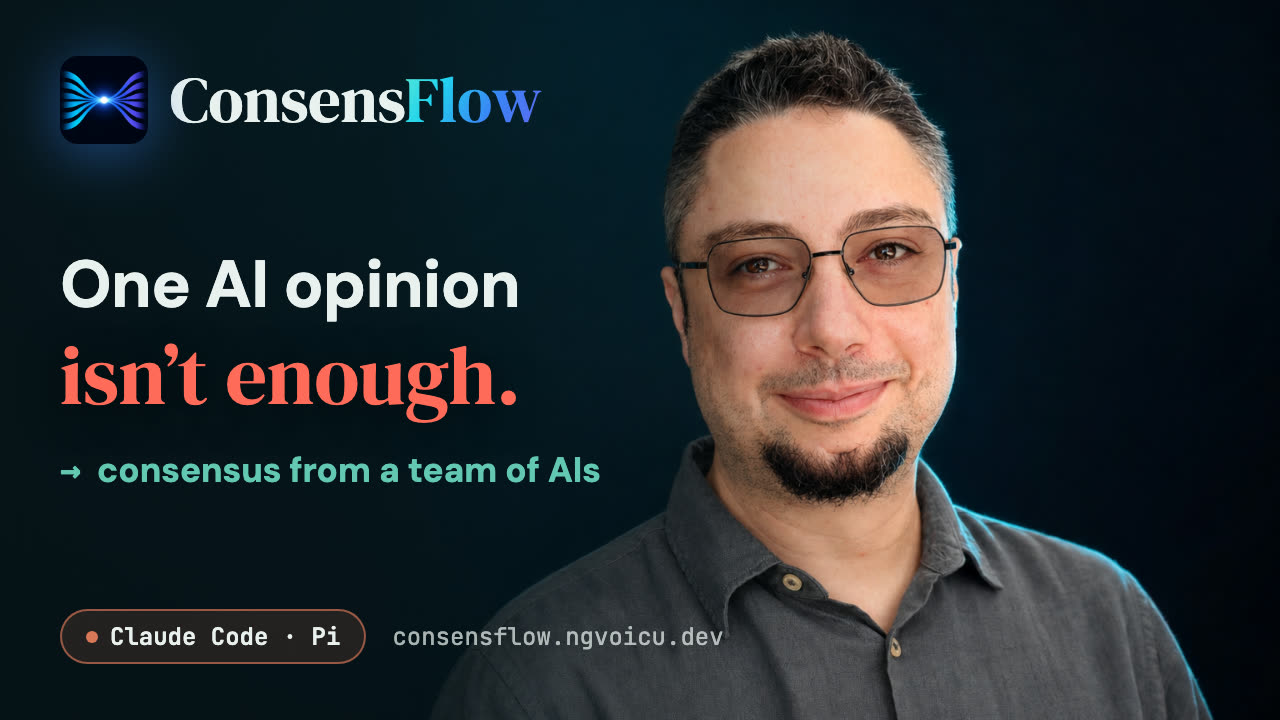
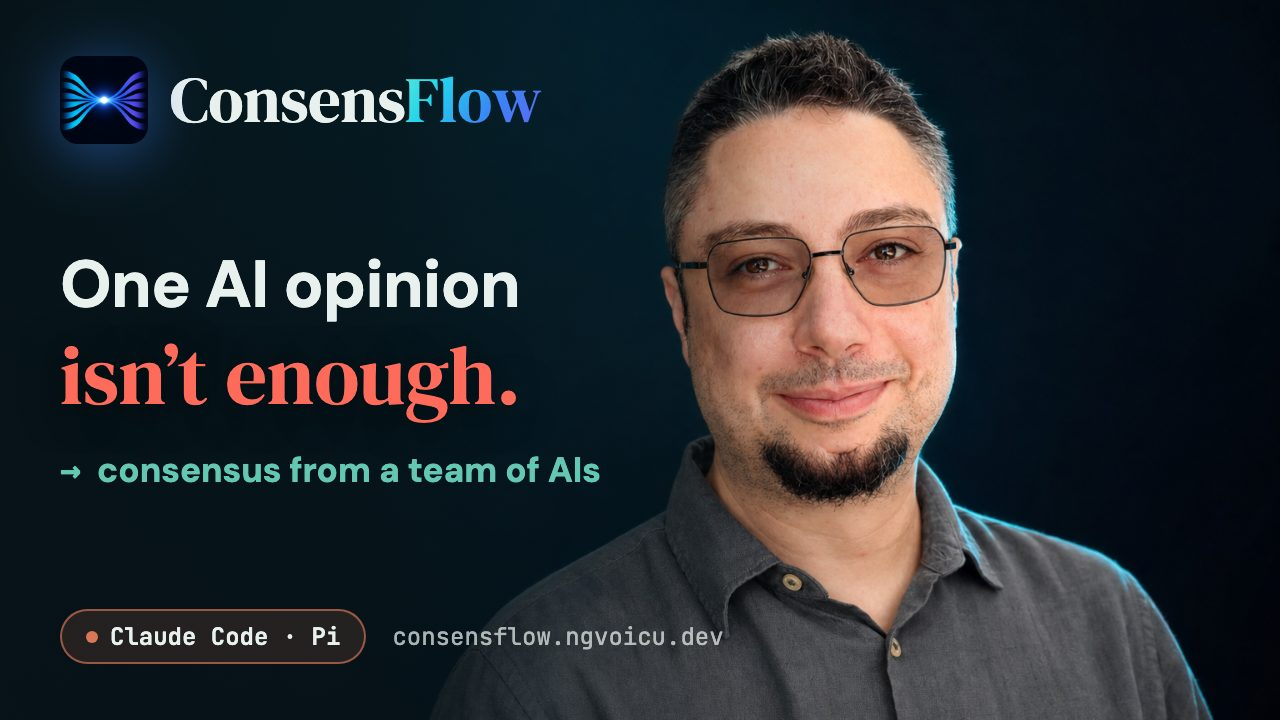
ConsensFlow video live — /videos card first with real URL + VideoObject, fresh v14 thumb, article embed + VideoObject

diff --git a/videos/index.html b/videos/index.html
@@ -42,6 +42,20 @@
 {
   "@context": "https://schema.org",
   "@type": "VideoObject",
+  "name": "ConsensFlow: a second AI opinion inside Claude Code & Pi",
+  "description": "One AI opinion isn't enough. ConsensFlow lets the AI you're coding with ask a different AI for a second opinion — multi-LLM code review, spec review and task delegation, without leaving your session.",
+  "thumbnailUrl": "https://ngvoicu.dev/videos/thumbs/consensflow.jpg",
+  "uploadDate": "2026-07-21",
+  "duration": "PT3M26S",
+  "contentUrl": "https://www.youtube.com/watch?v=iKuBFEDE8Go",
+  "embedUrl": "https://www.youtube-nocookie.com/embed/iKuBFEDE8Go",
+  "author": { "@type": "Person", "name": "Gabriel Voicu", "url": "https://ngvoicu.dev" }
+}
+</script>
+<script type="application/ld+json">
+{
+  "@context": "https://schema.org",
+  "@type": "VideoObject",
   "name": "Kluris: give your AI agents one shared memory (Claude Code, Cursor…)",
   "description": "Your AI agents are brilliant — and amnesiac. Kluris gives every AI agent on your team one shared brain: a git-backed knowledge base of markdown neurons that Claude Code, Cursor, Copilot and more read before they act.",
   "thumbnailUrl": "https://ngvoicu.dev/videos/thumbs/kluris.jpg",
@@ -106,6 +120,17 @@
 
   <h2>The AI-Native Toolkit (2026)</h2>
 
+  <a class="vid" href="https://www.youtube.com/watch?v=iKuBFEDE8Go">
+    <span class="shot"><img src="/videos/thumbs/consensflow.jpg" alt="ConsensFlow — one AI opinion isn't enough" width="1280" height="720" loading="lazy">
+      <span class="play"><span><svg width="22" height="26" viewBox="0 0 22 26"><path d="M0 0 L22 13 L0 26 Z" fill="#63C7B2"/></svg></span></span>
+    </span>
+    <span class="meta">
+      <span class="t">ConsensFlow — a second AI opinion, without leaving your session</span>
+      <span class="s">The AI you're coding with asks a <b>different</b> AI to review your spec, your diff, or do the easy work — Claude Code &amp; Pi, one shared roster, real captures of Fable 5 and GLM 5.2 finding the same bug independently.</span>
+      <span class="len">3:26 · consensflow.ngvoicu.dev</span>
+    </span>
+  </a>
+
   <a class="vid" href="https://www.youtube.com/watch?v=QSI-C57bt78">
     <span class="shot"><img src="/videos/thumbs/specmint.jpg" alt="Specmint — specs that survive the session" width="1280" height="720" loading="lazy">
       <span class="play"><span><svg width="22" height="26" viewBox="0 0 22 26"><path d="M0 0 L22 13 L0 26 Z" fill="#63C7B2"/></svg></span></span>
@@ -128,16 +153,6 @@
     </span>
   </a>
 
-  <a class="vid" href="https://www.youtube.com/@CodeWithZee">
-    <span class="shot"><img src="/videos/thumbs/consensflow.jpg" alt="ConsensFlow — one AI opinion isn't enough" width="1280" height="720" loading="lazy">
-      <span class="play"><span><svg width="22" height="26" viewBox="0 0 22 26"><path d="M0 0 L22 13 L0 26 Z" fill="#63C7B2"/></svg></span></span>
-    </span>
-    <span class="meta">
-      <span class="t">ConsensFlow — a second AI opinion, without leaving your session</span>
-      <span class="s">The AI you're coding with asks a <b>different</b> AI to review your spec, your diff, or do the easy work — Claude Code &amp; Pi, one shared roster, real captures of Fable 5 and GLM 5.2 finding the same bug independently.</span>
-      <span class="len">coming to the channel soon · consensflow.ngvoicu.dev</span>
-    </span>
-  </a>
 
   <h2>Earlier series (Java, 2016–2022)</h2>
   <p class="note">The channel's first life: enterprise Java screencasts. Most have matching write-ups in <a href="/articles/">articles</a>.</p>

diff --git a/articles/one-ai-opinion-isnt-enough/index.html b/articles/one-ai-opinion-isnt-enough/index.html
@@ -53,8 +53,24 @@
   article blockquote { border-left:3px solid var(--seafoam); padding-left:16px; margin:0 0 16px; }
   article blockquote p { margin-bottom:8px; }
   article hr { border:none; border-top:1px solid var(--ink-line); margin:32px 0; }
+  article .ratio, article iframe { max-width:100%; }
+  article iframe { width:100%; aspect-ratio:16/9; height:auto; border:1px solid var(--ink-line); border-radius:8px; margin:8px 0 18px; background:var(--ink-panel); }
   footer { margin-top:72px; padding-top:24px; border-top:1px solid var(--ink-line); font-family:var(--mono); font-size:13px; color:var(--mist); display:flex; justify-content:space-between; flex-wrap:wrap; gap:12px; }
 </style>
+<script type="application/ld+json">
+{
+  "@context": "https://schema.org",
+  "@type": "VideoObject",
+  "name": "ConsensFlow: a second AI opinion inside Claude Code & Pi",
+  "description": "ConsensFlow in 3 minutes: the AI you're coding with asks a different AI for a second opinion — spec review, code review, task delegation. Real run, real outputs, no mockups.",
+  "thumbnailUrl": "https://ngvoicu.dev/videos/thumbs/consensflow.jpg",
+  "uploadDate": "2026-07-21",
+  "duration": "PT3M26S",
+  "contentUrl": "https://www.youtube.com/watch?v=iKuBFEDE8Go",
+  "embedUrl": "https://www.youtube-nocookie.com/embed/iKuBFEDE8Go",
+  "author": { "@type": "Person", "name": "Gabriel Voicu", "url": "https://ngvoicu.dev" }
+}
+</script>
 </head>
 <body>
 <div class="page">
@@ -66,6 +82,8 @@
   <h1>One AI opinion isn't enough</h1>
   <div class="byline">by <a href="/">Gabriel Voicu</a></div>
   <article>
+    <iframe src="https://www.youtube-nocookie.com/embed/iKuBFEDE8Go" title="ConsensFlow: a second AI opinion inside Claude Code & Pi" loading="lazy" allow="accelerometer; autoplay; clipboard-write; encrypted-media; gyroscope; picture-in-picture" allowfullscreen></iframe>
+    <p><em>Prefer watching? The 3-minute video above shows the whole run — or read on.</em></p>
 <p><em>I asked two different AI models to review the same spec. They found the same correctness bug — independently — and each caught one thing the other missed. That run convinced me more than any benchmark ever has.</em></p>
 <p><strong>ConsensFlow</strong> is a free, open-source tool that lets the AI you're already coding with ask a <em>different</em> AI for a second opinion — or hand it a task outright — without you ever leaving your session. It runs inside Claude Code (as a plugin) and inside Pi (as an extension), and it can reach <strong>Claude Code, Codex, Pi and OpenCode — and every model those engines can run</strong> — through the subscriptions and API keys you already have.</p>
 <p><img src="images/hero.jpg" alt="Abstract illustration: five luminous colored streams converging into a single bright node, then flowing on as one." loading="lazy"></p>